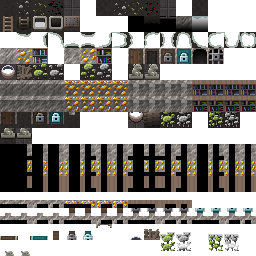
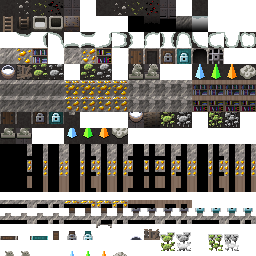
v2.2.0: added some new terrain types for blacksmith quest

Changed region(s): [[0.75, 0.25, 1.0, 0.3125], [0.25, 0.5, 0.5, 0.5625], [0.25, 0.9688, 0.5, 1.0]]

diff --git a/core/src/main/java/com/shatteredpixel/shatteredpixeldungeon/actors/hero/Hero.java b/core/src/main/java/com/shatteredpixel/shatteredpixeldungeon/actors/hero/Hero.java
@@ -74,6 +74,7 @@ import com.shatteredpixel.shatteredpixeldungeon.effects.CellEmitter;
 import com.shatteredpixel.shatteredpixeldungeon.effects.CheckedCell;
 import com.shatteredpixel.shatteredpixeldungeon.effects.Speck;
 import com.shatteredpixel.shatteredpixeldungeon.effects.SpellSprite;
+import com.shatteredpixel.shatteredpixeldungeon.effects.Splash;
 import com.shatteredpixel.shatteredpixeldungeon.items.Amulet;
 import com.shatteredpixel.shatteredpixeldungeon.items.Ankh;
 import com.shatteredpixel.shatteredpixeldungeon.items.Dewdrop;
@@ -163,8 +164,10 @@ import com.shatteredpixel.shatteredpixeldungeon.windows.WndResurrect;
 import com.shatteredpixel.shatteredpixeldungeon.windows.WndTradeItem;
 import com.watabou.noosa.Game;
 import com.watabou.noosa.audio.Sample;
+import com.watabou.noosa.tweeners.Delayer;
 import com.watabou.utils.Bundle;
 import com.watabou.utils.Callback;
+import com.watabou.utils.ColorMath;
 import com.watabou.utils.GameMath;
 import com.watabou.utils.PathFinder;
 import com.watabou.utils.Point;
@@ -1144,7 +1147,10 @@ public class Hero extends Char {
 	public boolean actMine(HeroAction.Mine action){
 		if (Dungeon.level.adjacent(pos, action.dst)){
 			path = null;
-			if ((Dungeon.level.map[action.dst] == Terrain.WALL || Dungeon.level.map[action.dst] == Terrain.WALL_DECO)
+			if ((Dungeon.level.map[action.dst] == Terrain.WALL
+					|| Dungeon.level.map[action.dst] == Terrain.WALL_DECO
+					|| Dungeon.level.map[action.dst] == Terrain.MINE_CRYSTAL
+					|| Dungeon.level.map[action.dst] == Terrain.MINE_BOULDER)
 				&& Dungeon.level.insideMap(action.dst)){
 				sprite.attack(action.dst, new Callback() {
 					@Override
@@ -1157,16 +1163,30 @@ public class Hero extends Char {
 							} else {
 								Dungeon.level.drop( gold, pos ).sprite.drop();
 							}
+							PixelScene.shake(0.5f, 0.5f);
 							CellEmitter.center( action.dst ).burst( Speck.factory( Speck.STAR ), 7 );
 							Sample.INSTANCE.play( Assets.Sounds.EVOKE );
-						} else {
+							Level.set( action.dst, Terrain.EMPTY_DECO );
+
+						} else if (Dungeon.level.map[action.dst] == Terrain.WALL){
+							//TODO inc. hunger by 5
+							PixelScene.shake(0.5f, 0.5f);
 							CellEmitter.get( action.dst ).burst( Speck.factory( Speck.ROCK ), 2 );
 							Sample.INSTANCE.play( Assets.Sounds.MINE );
+							Level.set( action.dst, Terrain.EMPTY_DECO );
+
+						} else if (Dungeon.level.map[action.dst] == Terrain.MINE_CRYSTAL){
+							Splash.at(action.dst, 0xFFFFFF, 5); //TODO match color?
+							Sample.INSTANCE.play( Assets.Sounds.SHATTER );
+							Level.set( action.dst, Terrain.EMPTY );
+
+						} else if (Dungeon.level.map[action.dst] == Terrain.MINE_BOULDER){
+							//TODO inc. hunger by 1
+							Splash.at(action.dst, ColorMath.random( 0x444444, 0x777766 ), 5);
+							Sample.INSTANCE.play( Assets.Sounds.MINE, 0.6f );
+							Level.set( action.dst, Terrain.EMPTY );
 						}
 
-						PixelScene.shake(0.5f, 0.5f);
-
-						Level.set( action.dst, Terrain.EMPTY_DECO );
 						for (int i : PathFinder.NEIGHBOURS9) {
 							Dungeon.level.discoverable[action.dst + i] = true;
 						}
@@ -1174,9 +1194,41 @@ public class Hero extends Char {
 							GameScene.updateMap( action.dst+i );
 						}
 
-						Dungeon.observe();
+						boolean crystalAdjacent = false;
+						for (int i : PathFinder.NEIGHBOURS8) {
+							if (Dungeon.level.map[action.dst + i] == Terrain.MINE_CRYSTAL){
+								crystalAdjacent = true;
+								break;
+							}
+						}
 
-						spendAndNext(TICK);
+						if (crystalAdjacent){
+							sprite.parent.add(new Delayer(0.2f){
+								@Override
+								protected void onComplete() {
+									boolean broke = false;
+									for (int i : PathFinder.NEIGHBOURS8) {
+										if (Dungeon.level.map[action.dst+i] == Terrain.MINE_CRYSTAL){
+											Splash.at(action.dst+i, 0xFFFFFF, 5);
+											Level.set( action.dst+i, Terrain.EMPTY );
+											broke = true;
+										}
+									}
+									if (broke){
+										Sample.INSTANCE.play( Assets.Sounds.SHATTER );
+									}
+
+									for (int i : PathFinder.NEIGHBOURS9) {
+										GameScene.updateMap( action.dst+i );
+									}
+									spendAndNext(TICK);
+								}
+							});
+						} else {
+							spendAndNext(TICK);
+						}
+
+						Dungeon.observe();
 					}
 				});
 			} else {
@@ -1676,7 +1728,10 @@ public class Hero extends Char {
 		//TODO perhaps only trigger this if hero is already adjacent? reducing mistaps
 		} else if (Dungeon.level instanceof MiningLevel &&
 					belongings.getItem(Pickaxe.class) != null &&
-				(Dungeon.level.map[cell] == Terrain.WALL || Dungeon.level.map[cell] == Terrain.WALL_DECO)){
+				(Dungeon.level.map[cell] == Terrain.WALL
+						|| Dungeon.level.map[cell] == Terrain.WALL_DECO
+						|| Dungeon.level.map[cell] == Terrain.MINE_CRYSTAL
+						|| Dungeon.level.map[cell] == Terrain.MINE_BOULDER)){
 
 			curAction = new HeroAction.Mine( cell );
 

diff --git a/core/src/main/java/com/shatteredpixel/shatteredpixeldungeon/tiles/DungeonTileSheet.java b/core/src/main/java/com/shatteredpixel/shatteredpixeldungeon/tiles/DungeonTileSheet.java
@@ -96,6 +96,8 @@ public class DungeonTileSheet {
 		chasmStitcheable.put( Terrain.BOOKSHELF,    CHASM_FLOOR );
 		chasmStitcheable.put( Terrain.BARRICADE,    CHASM_FLOOR );
 		chasmStitcheable.put( Terrain.PEDESTAL,     CHASM_FLOOR );
+		chasmStitcheable.put( Terrain.MINE_BOULDER, CHASM_FLOOR );
+		chasmStitcheable.put( Terrain.MINE_CRYSTAL, CHASM_FLOOR );
 
 		//special floor
 		chasmStitcheable.put( Terrain.EMPTY_SP,     CHASM_FLOOR_SP );
@@ -132,6 +134,7 @@ public class DungeonTileSheet {
 			Terrain.BARRICADE, Terrain.HIGH_GRASS, Terrain.FURROWED_GRASS, Terrain.SECRET_TRAP,
 			Terrain.TRAP, Terrain.INACTIVE_TRAP, Terrain.EMPTY_DECO,
 			Terrain.CUSTOM_DECO, Terrain.WELL, Terrain.STATUE, Terrain.ALCHEMY,
+			Terrain.MINE_CRYSTAL, Terrain.MINE_BOULDER,
 			Terrain.DOOR, Terrain.OPEN_DOOR, Terrain.LOCKED_DOOR, Terrain.CRYSTAL_DOOR
 	));
 
@@ -181,6 +184,11 @@ public class DungeonTileSheet {
 
 	public static final int FLAT_STATUE         = FLAT_OTHER+8;
 	public static final int FLAT_STATUE_SP      = FLAT_OTHER+9;
+
+	public static final int FLAT_MINE_CRYSTAL         = FLAT_OTHER+12;
+	public static final int FLAT_MINE_CRYSTAL_ALT     = FLAT_OTHER+13;
+	public static final int FLAT_MINE_CRYSTAL_ALT_2   = FLAT_OTHER+14;
+	public static final int FLAT_MINE_BOULDER         = FLAT_OTHER+15;
 
 
 	/**********************************************************************
@@ -273,6 +281,11 @@ public class DungeonTileSheet {
 	public static final int RAISED_STATUE           = RAISED_OTHER+8;
 	public static final int RAISED_STATUE_SP        = RAISED_OTHER+9;
 
+	public static final int RAISED_MINE_CRYSTAL     = RAISED_OTHER+12;
+	public static final int RAISED_MINE_CRYSTAL_ALT = RAISED_OTHER+13;
+	public static final int RAISED_MINE_CRYSTAL_ALT_2=RAISED_OTHER+14;
+	public static final int RAISED_MINE_BOULDER     = RAISED_OTHER+15;
+
 
 	/**********************************************************************
 	 * Raised Tiles, Upper Layer
@@ -348,6 +361,11 @@ public class DungeonTileSheet {
 	public static final int STATUE_OVERHANG             = OTHER_OVERHANG+8;
 	public static final int STATUE_SP_OVERHANG          = OTHER_OVERHANG+9;
 
+	public static final int MINE_CRYSTAL_OVERHANG       = OTHER_OVERHANG+12;
+	public static final int MINE_CRYSTAL_OVERHANG_ALT   = OTHER_OVERHANG+13;
+	public static final int MINE_CRYSTAL_OVERHANG_ALT_2 = OTHER_OVERHANG+14;
+	public static final int MINE_BOULDER_OVERHANG       = OTHER_OVERHANG+15;
+
 	public static final int HIGH_GRASS_UNDERHANG        = OTHER_OVERHANG+18;
 	public static final int FURROWED_UNDERHANG          = OTHER_OVERHANG+19;
 
@@ -399,6 +417,9 @@ public class DungeonTileSheet {
 		directFlatVisuals.put(Terrain.STATUE,           FLAT_STATUE);
 		directFlatVisuals.put(Terrain.STATUE_SP,        FLAT_STATUE_SP);
 
+		directFlatVisuals.put(Terrain.MINE_CRYSTAL,     FLAT_MINE_CRYSTAL);
+		directFlatVisuals.put(Terrain.MINE_BOULDER,     FLAT_MINE_BOULDER);
+
 		directFlatVisuals.put(Terrain.SECRET_DOOR,      directFlatVisuals.get(Terrain.WALL));
 	}
 
@@ -434,6 +455,7 @@ public class DungeonTileSheet {
 		commonAltVisuals.put(FLAT_BOOKSHELF,        FLAT_BOOKSHELF_ALT);
 		commonAltVisuals.put(FLAT_HIGH_GRASS,       FLAT_HIGH_GRASS_ALT);
 		commonAltVisuals.put(FLAT_FURROWED_GRASS,   FLAT_FURROWED_ALT);
+		commonAltVisuals.put(FLAT_MINE_CRYSTAL,     FLAT_MINE_CRYSTAL_ALT);
 
 		commonAltVisuals.put(RAISED_WALL,           RAISED_WALL_ALT);
 		commonAltVisuals.put(RAISED_WALL_DECO,      RAISED_WALL_DECO_ALT);
@@ -443,14 +465,19 @@ public class DungeonTileSheet {
 		commonAltVisuals.put(RAISED_FURROWED_GRASS, RAISED_FURROWED_ALT);
 		commonAltVisuals.put(HIGH_GRASS_OVERHANG,   HIGH_GRASS_OVERHANG_ALT);
 		commonAltVisuals.put(FURROWED_OVERHANG,     FURROWED_OVERHANG_ALT);
+		commonAltVisuals.put(RAISED_MINE_CRYSTAL,   RAISED_MINE_CRYSTAL_ALT);
 		commonAltVisuals.put(HIGH_GRASS_UNDERHANG,  HIGH_GRASS_UNDERHANG_ALT);
 		commonAltVisuals.put(FURROWED_UNDERHANG,    FURROWED_UNDERHANG_ALT);
+		commonAltVisuals.put(MINE_CRYSTAL_OVERHANG, MINE_CRYSTAL_OVERHANG_ALT);
 	}
 
 	//These alt visuals trigger 5% of the time (and also override common alts when they show up)
 	public static SparseArray<Integer> rareAltVisuals = new SparseArray<>();
 	static {
-		rareAltVisuals.put(FLOOR,               FLOOR_ALT_2);
+		rareAltVisuals.put(FLOOR,                   FLOOR_ALT_2);
+		rareAltVisuals.put(FLAT_MINE_CRYSTAL,       FLAT_MINE_CRYSTAL_ALT_2);
+		rareAltVisuals.put(RAISED_MINE_CRYSTAL,     RAISED_MINE_CRYSTAL_ALT_2);
+		rareAltVisuals.put(MINE_CRYSTAL_OVERHANG,   MINE_CRYSTAL_OVERHANG_ALT_2);
 	}
 
 	public static int getVisualWithAlts(int visual, int pos){

diff --git a/core/src/main/java/com/shatteredpixel/shatteredpixeldungeon/levels/MiningLevel.java b/core/src/main/java/com/shatteredpixel/shatteredpixeldungeon/levels/MiningLevel.java
@@ -121,6 +121,30 @@ public class MiningLevel extends CavesLevel {
 	}
 
 	@Override
+	public String tileName( int tile ) {
+		switch (tile) {
+			case Terrain.MINE_CRYSTAL:
+				return Messages.get(MiningLevel.class, "crystal_name");
+			case Terrain.MINE_BOULDER:
+				return Messages.get(MiningLevel.class, "boulder_name");
+			default:
+				return super.tileName( tile );
+		}
+	}
+
+	@Override
+	public String tileDesc( int tile ) {
+		switch (tile) {
+			case Terrain.MINE_CRYSTAL:
+				return Messages.get(MiningLevel.class, "crystal_desc");
+			case Terrain.MINE_BOULDER:
+				return Messages.get(MiningLevel.class, "boulder_desc");
+			default:
+				return super.tileDesc( tile );
+		}
+	}
+
+	@Override
 	public Group addVisuals() {
 		super.addVisuals();
 		visuals.clear(); //we re-add these in wall visuals

diff --git a/core/src/main/java/com/shatteredpixel/shatteredpixeldungeon/tiles/DungeonWallsTilemap.java b/core/src/main/java/com/shatteredpixel/shatteredpixeldungeon/tiles/DungeonWallsTilemap.java
@@ -84,6 +84,10 @@ public class DungeonWallsTilemap extends DungeonTilemap {
 			return DungeonTileSheet.STATUE_OVERHANG;
 		} else if (pos + mapWidth < size && map[pos+mapWidth] == Terrain.STATUE_SP){
 			return DungeonTileSheet.STATUE_SP_OVERHANG;
+		} else if (pos + mapWidth < size && map[pos+mapWidth] == Terrain.MINE_CRYSTAL){
+			return DungeonTileSheet.getVisualWithAlts(DungeonTileSheet.MINE_CRYSTAL_OVERHANG, pos + mapWidth);
+		} else if (pos + mapWidth < size && map[pos+mapWidth] == Terrain.MINE_BOULDER){
+			return DungeonTileSheet.MINE_BOULDER_OVERHANG;
 		} else if (pos + mapWidth < size && map[pos+mapWidth] == Terrain.ALCHEMY){
 			return DungeonTileSheet.ALCHEMY_POT_OVERHANG;
 		} else if (pos + mapWidth < size && map[pos+mapWidth] == Terrain.BARRICADE){

diff --git a/core/src/main/java/com/shatteredpixel/shatteredpixeldungeon/tiles/DungeonTerrainTilemap.java b/core/src/main/java/com/shatteredpixel/shatteredpixeldungeon/tiles/DungeonTerrainTilemap.java
@@ -70,6 +70,12 @@ public class DungeonTerrainTilemap extends DungeonTilemap {
 				return DungeonTileSheet.RAISED_STATUE;
 			} else if (tile == Terrain.STATUE_SP) {
 				return DungeonTileSheet.RAISED_STATUE_SP;
+			} else if (tile == Terrain.MINE_CRYSTAL) {
+				return DungeonTileSheet.getVisualWithAlts(
+						DungeonTileSheet.RAISED_MINE_CRYSTAL,
+						pos);
+			} else if (tile == Terrain.MINE_BOULDER) {
+				return DungeonTileSheet.RAISED_MINE_BOULDER;
 			} else if (tile == Terrain.ALCHEMY) {
 				return DungeonTileSheet.RAISED_ALCHEMY_POT;
 			} else if (tile == Terrain.BARRICADE) {

diff --git a/core/src/main/java/com/shatteredpixel/shatteredpixeldungeon/levels/Terrain.java b/core/src/main/java/com/shatteredpixel/shatteredpixeldungeon/levels/Terrain.java
@@ -58,6 +58,10 @@ public class Terrain {
 	public static final int CUSTOM_DECO	    = 23; //invisible decoration that will also be a custom visual, re-uses the old terrain ID for signs
 	public static final int STATUE			= 25;
 	public static final int STATUE_SP		= 26;
+	//These decorations are environment-specific
+	//33 and 34 are reserved for future statue-like decorations
+	public static final int MINE_CRYSTAL    = 35;
+	public static final int MINE_BOULDER    = 36;
 
 	public static final int WATER		    = 29;
 	
